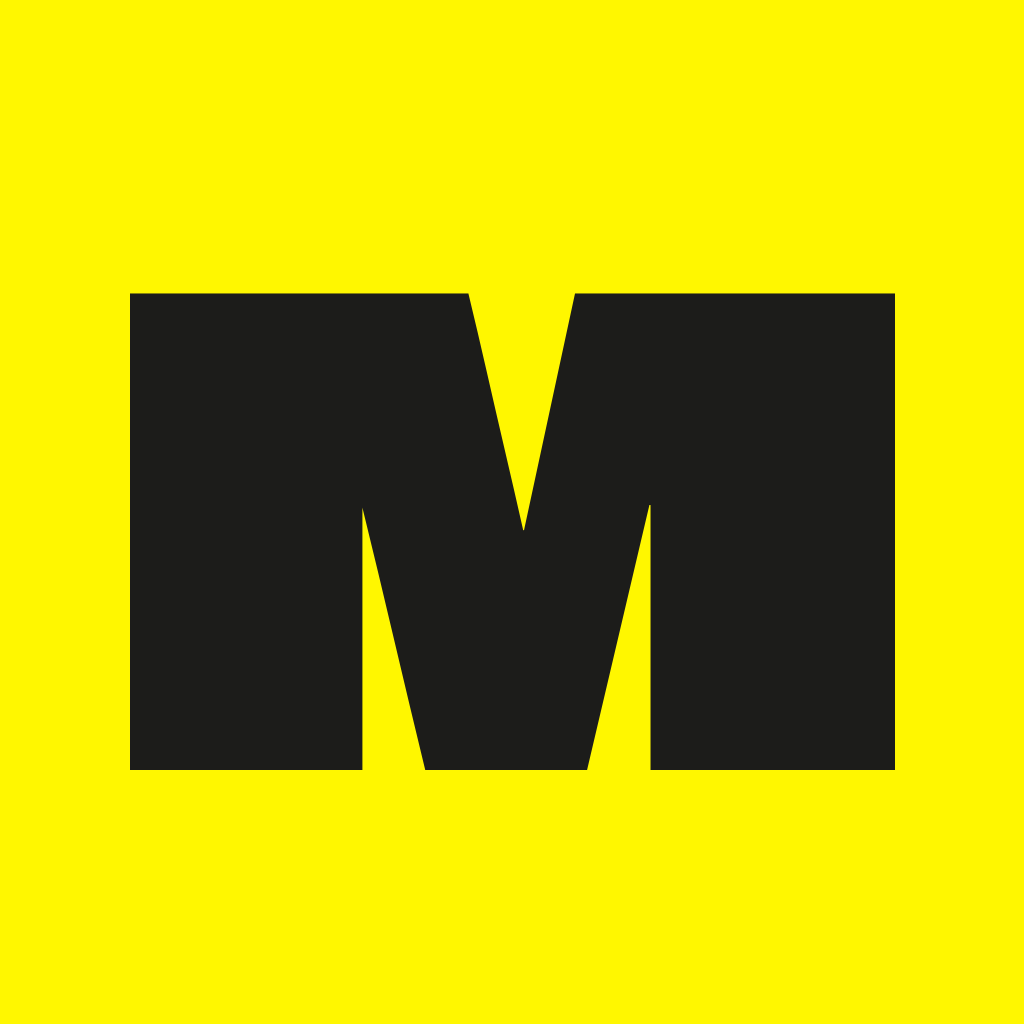
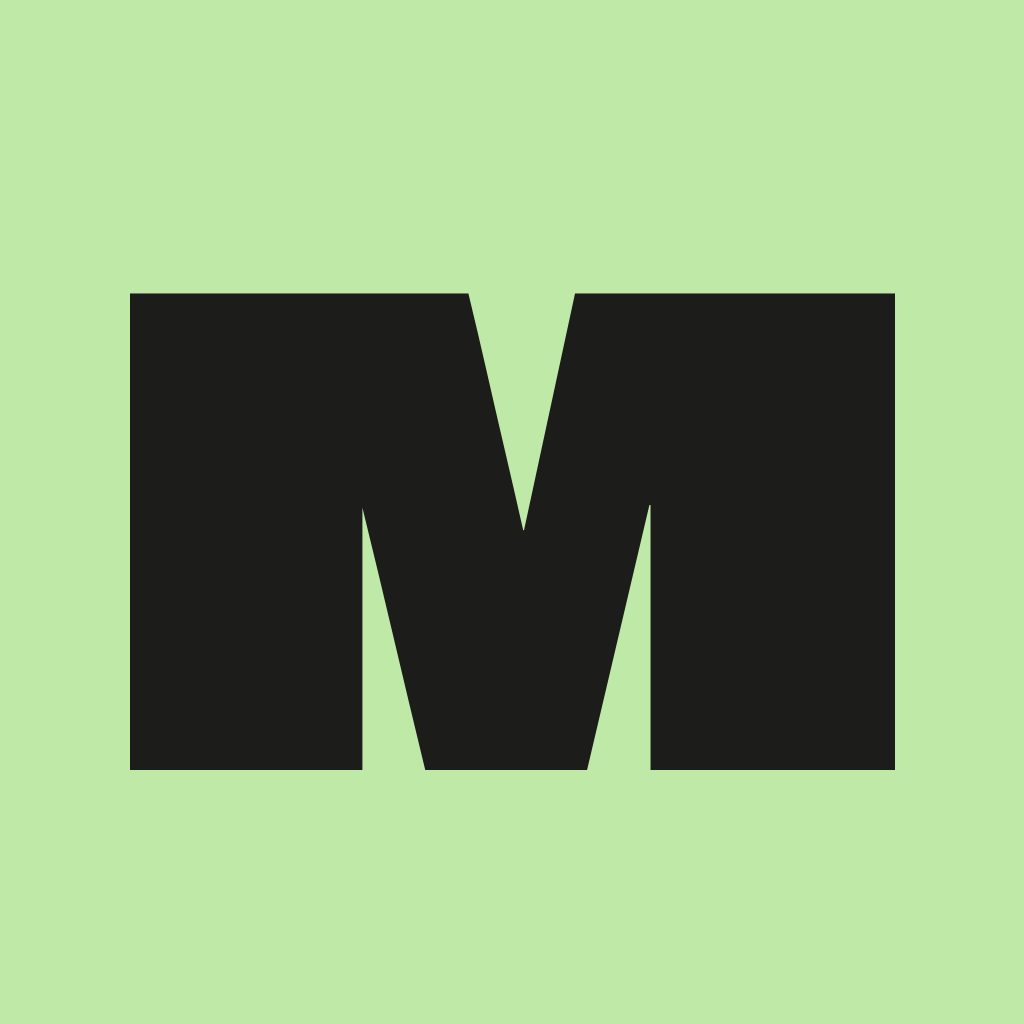
Coquille iOS : passe du citron au pistache (design system)
Icône, écran de lancement et barre de statut en #BFE9A6 au lieu du
citron, cohérent avec le design system (pistache par défaut depuis
D-241/D-235) : il n'y a plus de jaune nulle part dans la coquille
native, seul le web embarqué (déjà pistache) restait correct.

diff --git a/ios-app/www/index.html b/ios-app/www/index.html
@@ -8,7 +8,7 @@
       html, body {
         margin: 0;
         height: 100%;
-        background: #f7e017;
+        background: #bfe9a6;
       }
     </style>
   </head>
